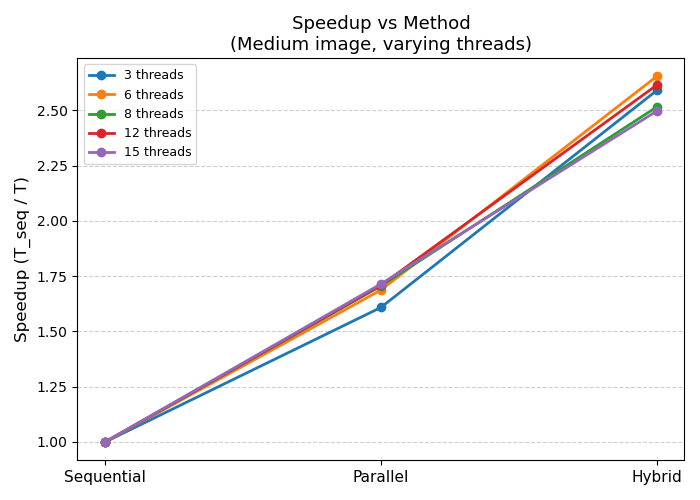
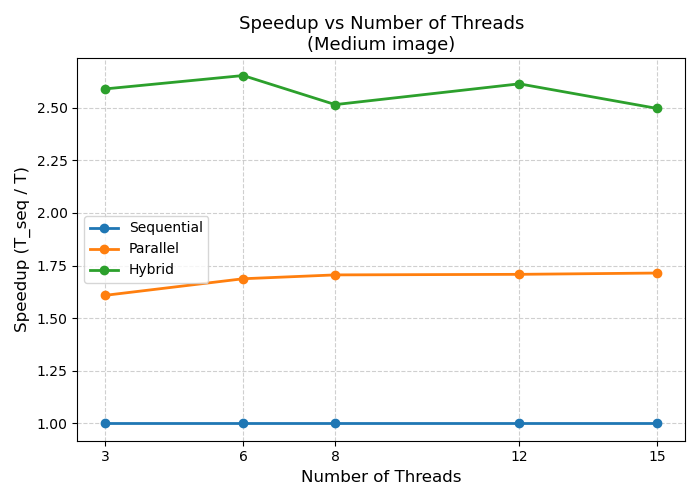
updated plot

diff --git a/image_processing/metrics plot/hpc_all_metrics_plots.py b/image_processing/metrics plot/hpc_all_metrics_plots.py
@@ -8,9 +8,6 @@ import matplotlib.pyplot as plt
 OUTPUT_DIR = "output images"
 os.makedirs(OUTPUT_DIR, exist_ok=True)
 
-methods = ["Sequential", "Parallel", "Hybrid"]
-x = np.arange(len(methods))
-
 # ==========================
 # Raw timing data (seconds)
 # ==========================
@@ -74,90 +71,118 @@ granularity_data_time = {
     "Fine":   (T_seq_fine,   T_par_fine_8,   T_hyb_fine_8,   PIX_FINE),
 }
 
-colors_threads    = ["#1f77b4", "#ff7f0e", "#2ca02c", "#d62728", "#9467bd"]  # for 3,6,8,12,15
-colors_processors = ["#1f77b4", "#ff7f0e", "#2ca02c"]  # for 2,5,9
-colors_gran       = ["#1f77b4", "#ff7f0e", "#2ca02c"]  # Small, Medium, Fine
+# Colors for lines (Sequential, Parallel, Hybrid)
+COLOR_SEQ = "#1f77b4"
+COLOR_PAR = "#ff7f0e"
+COLOR_HYB = "#2ca02c"
 
 # ============================================================
-# Helper: plot one metric for threads (medium image)
+# Helper: plot one metric vs THREADS (medium image)
+# X-axis: threads, Lines: Seq / Par / Hybrid
 # ============================================================
 def plot_metric_threads(metric_name, filename, y_label):
-    plt.figure(figsize=(7, 5))
+    threads_list = [3, 6, 8, 12, 15]
+    x = np.array(threads_list, dtype=float)
 
-    for idx, threads in enumerate([3, 6, 8, 12, 15]):
-        # Execution times
+    seq_vals = []
+    par_vals = []
+    hyb_vals = []
+
+    for threads in threads_list:
         seq_t = T_seq_medium
         par_t = par_medium_by_threads[threads]
         hyb_t = hyb_medium_by_threads[threads]
 
         if metric_name == "time":
-            y_vals = [seq_t, par_t, hyb_t]
+            seq_vals.append(seq_t)
+            par_vals.append(par_t)
+            hyb_vals.append(hyb_t)
 
         elif metric_name == "speedup":
             S_seq = 1.0
             S_par = T_seq_medium / par_t
             S_hyb = T_seq_medium / hyb_t
-            y_vals = [S_seq, S_par, S_hyb]
+            seq_vals.append(S_seq)
+            par_vals.append(S_par)
+            hyb_vals.append(S_hyb)
 
         elif metric_name == "efficiency":
             p = threads
             S_seq = 1.0
             S_par = T_seq_medium / par_t
             S_hyb = T_seq_medium / hyb_t
-            E_seq = S_seq / p     # conceptual
+            E_seq = S_seq / p
             E_par = S_par / p
             E_hyb = S_hyb / p
-            y_vals = [E_seq, E_par, E_hyb]
+            seq_vals.append(E_seq)
+            par_vals.append(E_par)
+            hyb_vals.append(E_hyb)
 
         elif metric_name == "cost":
             p = threads
-            C_seq = 1 * seq_t         # 1 processor for sequential
+            C_seq = 1 * seq_t
             C_par = p * par_t
             C_hyb = p * hyb_t
-            y_vals = [C_seq, C_par, C_hyb]
+            seq_vals.append(C_seq)
+            par_vals.append(C_par)
+            hyb_vals.append(C_hyb)
 
         elif metric_name == "throughput":
-            # Mpixels/sec
             Th_seq = PIX_MED / (seq_t * 1e6)
             Th_par = PIX_MED / (par_t * 1e6)
             Th_hyb = PIX_MED / (hyb_t * 1e6)
-            y_vals = [Th_seq, Th_par, Th_hyb]
+            seq_vals.append(Th_seq)
+            par_vals.append(Th_par)
+            hyb_vals.append(Th_hyb)
 
         else:
             raise ValueError("Unknown metric")
 
-        plt.plot(x, y_vals, marker="o", linewidth=2,
-                 color=colors_threads[idx], label=f"{threads} threads")
+    plt.figure(figsize=(7, 5))
+    plt.plot(x, seq_vals, marker="o", linewidth=2, color=COLOR_SEQ, label="Sequential")
+    plt.plot(x, par_vals, marker="o", linewidth=2, color=COLOR_PAR, label="Parallel")
+    plt.plot(x, hyb_vals, marker="o", linewidth=2, color=COLOR_HYB, label="Hybrid")
 
-    plt.xticks(x, methods, fontsize=11)
+    plt.xlabel("Number of Threads", fontsize=12)
     plt.ylabel(y_label, fontsize=12)
-    plt.title(f"{metric_name.capitalize()} vs Method\n(Medium image, varying threads)", fontsize=13)
-    plt.grid(True, axis="y", linestyle="--", alpha=0.6)
-    plt.legend(fontsize=9)
+    plt.title(f"{metric_name.capitalize()} vs Number of Threads\n(Medium image)", fontsize=13)
+    plt.grid(True, linestyle="--", alpha=0.6)
+    plt.xticks(threads_list, [str(t) for t in threads_list])
+    plt.legend(fontsize=10)
     plt.tight_layout()
     plt.savefig(os.path.join(OUTPUT_DIR, filename))
     plt.show()
 
 
 # ============================================================
-# Helper: plot one metric for processors (fine image)
+# Helper: plot one metric vs PROCESSORS (fine image)
+# X-axis: processors, Lines: Seq / Par / Hybrid
 # ============================================================
 def plot_metric_processors(metric_name, filename, y_label):
-    plt.figure(figsize=(7, 5))
+    procs_list = [2, 5, 9]
+    x = np.array(procs_list, dtype=float)
 
-    for idx, procs in enumerate([2, 5, 9]):
+    seq_vals = []
+    par_vals = []
+    hyb_vals = []
+
+    for procs in procs_list:
         seq_t = T_seq_fine
         par_t = par_fine_by_procs[procs]
         hyb_t = hyb_fine_by_procs[procs]
 
         if metric_name == "time":
-            y_vals = [seq_t, par_t, hyb_t]
+            seq_vals.append(seq_t)
+            par_vals.append(par_t)
+            hyb_vals.append(hyb_t)
 
         elif metric_name == "speedup":
             S_seq = 1.0
             S_par = T_seq_fine / par_t
             S_hyb = T_seq_fine / hyb_t
-            y_vals = [S_seq, S_par, S_hyb]
+            seq_vals.append(S_seq)
+            par_vals.append(S_par)
+            hyb_vals.append(S_hyb)
 
         elif metric_name == "efficiency":
             p = procs
@@ -167,52 +192,73 @@ def plot_metric_processors(metric_name, filename, y_label):
             E_seq = S_seq / p
             E_par = S_par / p
             E_hyb = S_hyb / p
-            y_vals = [E_seq, E_par, E_hyb]
+            seq_vals.append(E_seq)
+            par_vals.append(E_par)
+            hyb_vals.append(E_hyb)
 
         elif metric_name == "cost":
             p = procs
             C_seq = 1 * seq_t
             C_par = p * par_t
             C_hyb = p * hyb_t
-            y_vals = [C_seq, C_par, C_hyb]
+            seq_vals.append(C_seq)
+            par_vals.append(C_par)
+            hyb_vals.append(C_hyb)
 
         elif metric_name == "throughput":
             Th_seq = PIX_FINE / (seq_t * 1e6)
             Th_par = PIX_FINE / (par_t * 1e6)
             Th_hyb = PIX_FINE / (hyb_t * 1e6)
-            y_vals = [Th_seq, Th_par, Th_hyb]
+            seq_vals.append(Th_seq)
+            par_vals.append(Th_par)
+            hyb_vals.append(Th_hyb)
 
         else:
             raise ValueError("Unknown metric")
 
-        plt.plot(x, y_vals, marker="o", linewidth=2,
-                 color=colors_processors[idx], label=f"{procs} processors")
+    plt.figure(figsize=(7, 5))
+    plt.plot(x, seq_vals, marker="o", linewidth=2, color=COLOR_SEQ, label="Sequential")
+    plt.plot(x, par_vals, marker="o", linewidth=2, color=COLOR_PAR, label="Parallel")
+    plt.plot(x, hyb_vals, marker="o", linewidth=2, color=COLOR_HYB, label="Hybrid")
 
-    plt.xticks(x, methods, fontsize=11)
+    plt.xlabel("Number of Processors", fontsize=12)
     plt.ylabel(y_label, fontsize=12)
-    plt.title(f"{metric_name.capitalize()} vs Method\n(Fine image, varying processors)", fontsize=13)
-    plt.grid(True, axis="y", linestyle="--", alpha=0.6)
-    plt.legend(fontsize=9)
+    plt.title(f"{metric_name.capitalize()} vs Number of Processors\n(Fine image)", fontsize=13)
+    plt.grid(True, linestyle="--", alpha=0.6)
+    plt.xticks(procs_list, [str(p) for p in procs_list])
+    plt.legend(fontsize=10)
     plt.tight_layout()
     plt.savefig(os.path.join(OUTPUT_DIR, filename))
     plt.show()
 
 
 # ============================================================
-# Helper: plot one metric for granularity (small/medium/fine, 8 threads)
+# Helper: plot one metric vs GRANULARITY (small/medium/fine, 8 threads)
+# X-axis: granularity, Lines: Seq / Par / Hybrid
 # ============================================================
 def plot_metric_granularity(metric_name, filename, y_label):
-    plt.figure(figsize=(7, 5))
+    gran_labels = list(granularity_data_time.keys())  # ["Small","Medium","Fine"]
+    x = np.arange(len(gran_labels))
 
-    for idx, (label, (seq_t, par_t, hyb_t, pix)) in enumerate(granularity_data_time.items()):
+    seq_vals = []
+    par_vals = []
+    hyb_vals = []
+
+    for label in gran_labels:
+        seq_t, par_t, hyb_t, pix = granularity_data_time[label]
+
         if metric_name == "time":
-            y_vals = [seq_t, par_t, hyb_t]
+            seq_vals.append(seq_t)
+            par_vals.append(par_t)
+            hyb_vals.append(hyb_t)
 
         elif metric_name == "speedup":
             S_seq = 1.0
             S_par = seq_t / par_t
             S_hyb = seq_t / hyb_t
-            y_vals = [S_seq, S_par, S_hyb]
+            seq_vals.append(S_seq)
+            par_vals.append(S_par)
+            hyb_vals.append(S_hyb)
 
         elif metric_name == "efficiency":
             p = 8  # fixed threads
@@ -222,32 +268,41 @@ def plot_metric_granularity(metric_name, filename, y_label):
             E_seq = S_seq / p
             E_par = S_par / p
             E_hyb = S_hyb / p
-            y_vals = [E_seq, E_par, E_hyb]
+            seq_vals.append(E_seq)
+            par_vals.append(E_par)
+            hyb_vals.append(E_hyb)
 
         elif metric_name == "cost":
             p = 8
             C_seq = 1 * seq_t
             C_par = p * par_t
             C_hyb = p * hyb_t
-            y_vals = [C_seq, C_par, C_hyb]
+            seq_vals.append(C_seq)
+            par_vals.append(C_par)
+            hyb_vals.append(C_hyb)
 
         elif metric_name == "throughput":
             Th_seq = pix / (seq_t * 1e6)
             Th_par = pix / (par_t * 1e6)
             Th_hyb = pix / (hyb_t * 1e6)
-            y_vals = [Th_seq, Th_par, Th_hyb]
+            seq_vals.append(Th_seq)
+            par_vals.append(Th_par)
+            hyb_vals.append(Th_hyb)
 
         else:
             raise ValueError("Unknown metric")
 
-        plt.plot(x, y_vals, marker="o", linewidth=2,
-                 color=colors_gran[idx], label=f"{label} image")
+    plt.figure(figsize=(7, 5))
+    plt.plot(x, seq_vals, marker="o", linewidth=2, color=COLOR_SEQ, label="Sequential")
+    plt.plot(x, par_vals, marker="o", linewidth=2, color=COLOR_PAR, label="Parallel")
+    plt.plot(x, hyb_vals, marker="o", linewidth=2, color=COLOR_HYB, label="Hybrid")
 
-    plt.xticks(x, methods, fontsize=11)
+    plt.xlabel("Granularity (Image Size)", fontsize=12)
     plt.ylabel(y_label, fontsize=12)
-    plt.title(f"{metric_name.capitalize()} vs Method\n(Varying granularity, 8 threads)", fontsize=13)
-    plt.grid(True, axis="y", linestyle="--", alpha=0.6)
-    plt.legend(fontsize=9)
+    plt.title(f"{metric_name.capitalize()} vs Granularity\n(8 threads)", fontsize=13)
+    plt.grid(True, linestyle="--", alpha=0.6)
+    plt.xticks(x, gran_labels)
+    plt.legend(fontsize=10)
     plt.tight_layout()
     plt.savefig(os.path.join(OUTPUT_DIR, filename))
     plt.show()
